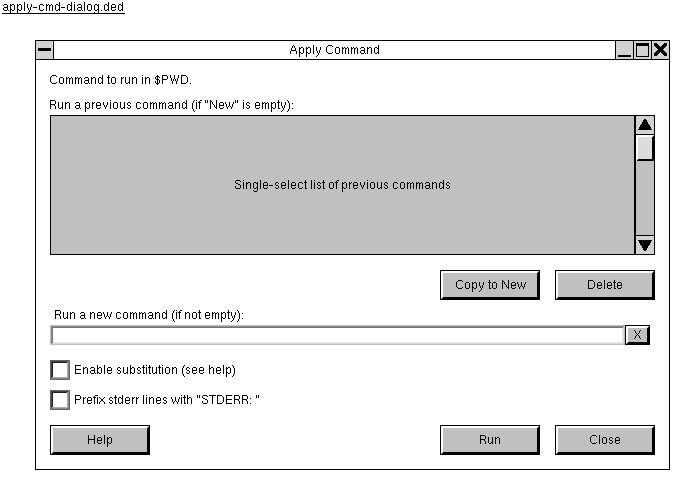
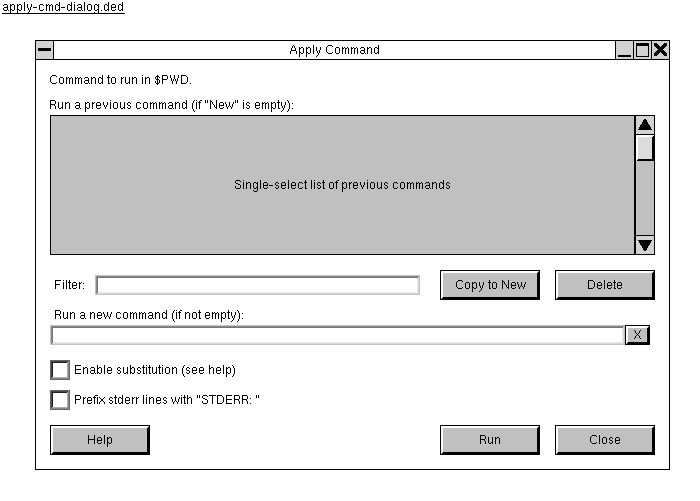
apply-command-dialog: Add a line edit to filter the history list.

Changed region(s): [[0.12, 0.5389, 0.6, 0.5988]]

diff --git a/doc/apply-cmd-dialog-spec.html b/doc/apply-cmd-dialog-spec.html
@@ -28,12 +28,24 @@ The dialog has these controls, laid out from top to bottom:
 <li><code>prevCommands</code>: List box containing the previously run command lines,
     less any subsequent deletions.  Initially, the most recently run
     command is selected, such that the user can open the dialog and
-    immediately hit Enter to run that command.
+    immediately hit Enter to run that command.  The list also allows
+    the user to type a few letters (when it has focus), and it will move
+    the selection to the entry that starts with those letters.  (The
+    exact behavior is currently known to me; this is something the Qt
+    list widget evidently does by default.)
 
-<li>Two buttons horizontally adjacent, aligned to the right side of the
-    dialog:
+<li>These horizontally adjacent controls, from left to right:
 
     <ul>
+
+    <li>Label with text: "Filter:".
+
+    <li><code>filter</code>: Single-line edit box.  When the user
+        enters a string into this box, the list restricts itself to
+        those entries that contain that string as a substring.  This
+        box has the hotkey Alt+F.  Additionally, when this box has focus
+        and the user presses the up-arrow key, focus moves to the list
+        and selects the first item if nothing is selected.
 
     <li><code>copyToNew</code>: Push button with label "Copy to New" and hotkey Alt+C.
         This copies the text of the selected item in <code>prevCommands</code> into the
@@ -101,6 +113,7 @@ Summary of hotkeys:
 <ul>
 <li>Alt+C: Activate <code>copyToNew</code>.
 <li>Alt+D: Activate <code>deleteSelected</code>.
+<li>Alt+F: Activate <code>filter</code>.
 <li>Alt+H: Activate <code>help</code>.
 <li>Alt+N: Set focus to <code>newCommand</code>.
 <li>Alt+P: Set focus to <code>prevCommands</code>.

diff --git a/apply-command-dialog.cc b/apply-command-dialog.cc
@@ -32,6 +32,114 @@ using namespace gdv;
 INIT_TRACE("apply-command-dialog");
 
 
+void ApplyCommandDialog::filterChanged(QString const &) NOEXCEPT
+{
+  GENERIC_CATCH_BEGIN
+
+  populateListWidget(false /*initial*/);
+
+  // If this causes the list to have exactly one element, select it so
+  // the user can then press Enter to run it without having to move to
+  // the list box.
+  selectListElementIfOne();
+
+  GENERIC_CATCH_END
+}
+
+
+void ApplyCommandDialog::populateListWidget(bool initial)
+{
+  CommandLineHistory const &history = getHistory();
+
+  // If we are just starting the dialog, select the most-recently
+  // executed command.  Otherwise (we are repopulating due to the filter
+  // being edited), try to keep the same item selected.
+  std::string itemToSelect;
+  if (initial) {
+    itemToSelect = history.m_recent;
+  }
+  else if (QListWidgetItem *item = m_prevCommandsListWidget->currentItem()) {
+    itemToSelect = toString(item->text());
+  }
+  TRACE2("itemToSelect: " << doubleQuote(itemToSelect));
+
+  // Discard the current list contents.
+  m_prevCommandsListWidget->clear();
+
+  // Is a filter active?
+  std::string filterString = toString(m_filterLineEdit->text());
+  if (!filterString.empty()) {
+    TRACE2("filter: " << doubleQuote(filterString));
+  }
+
+  // Populate the list.
+  int curRowIndex = 0;
+  int rowToSelect = -1;
+  for (std::string const &cmd : history.m_commands) {
+    if (filterString.empty() || hasSubstring(cmd, filterString)) {
+      m_prevCommandsListWidget->addItem(toQString(cmd));
+      if (cmd == itemToSelect) {
+        rowToSelect = curRowIndex;
+      }
+      ++curRowIndex;
+    }
+  }
+
+  // Select a row if we found a good one.
+  if (rowToSelect >= 0) {
+    m_prevCommandsListWidget->setCurrentRow(rowToSelect);
+    TRACE2("selected row " << rowToSelect);
+  }
+  else {
+    TRACE2("no selected row");
+  }
+}
+
+
+CommandLineHistory const &ApplyCommandDialog::getHistory()
+{
+  return m_editorWidget->editorGlobal()->getSettings().
+           getCommandHistoryC(m_whichFunction);
+}
+
+
+void ApplyCommandDialog::moveFocusToCommandsList()
+{
+  TRACE2("moving focus to commands list");
+
+  m_prevCommandsListWidget->setFocus();
+
+  // Select an item if we can.
+  if (m_prevCommandsListWidget->count() > 0) {
+    if (QListWidgetItem *item = m_prevCommandsListWidget->currentItem()) {
+      if (!item->isSelected()) {
+        TRACE2("selecting current item");
+        item->setSelected(true);
+      }
+      else {
+        TRACE2("current item is already selected");
+      }
+    }
+    else {
+      TRACE2("selecting first item");
+      m_prevCommandsListWidget->setCurrentRow(0);
+    }
+  }
+  else {
+    TRACE2("no items in list");
+  }
+}
+
+
+void ApplyCommandDialog::selectListElementIfOne()
+{
+  if (m_prevCommandsListWidget->count() == 1) {
+    // Does this select it?
+    m_prevCommandsListWidget->setCurrentRow(0);
+  }
+}
+
+
 void ApplyCommandDialog::copyToNew() NOEXCEPT
 {
   GENERIC_CATCH_BEGIN
@@ -108,9 +216,7 @@ ApplyCommandDialog::ApplyCommandDialog(
   }
 
   // History to use to populate the dialog.
-  CommandLineHistory const &history =
-    m_editorWidget->editorGlobal()->getSettings().
-      getCommandHistoryC(m_whichFunction);
+  CommandLineHistory const &history = getHistory();
 
   QVBoxLayout *vbox = new QVBoxLayout(this);
 
@@ -148,31 +254,23 @@ ApplyCommandDialog::ApplyCommandDialog(
   SET_QOBJECT_NAME(m_prevCommandsListWidget);
   vbox->addWidget(m_prevCommandsListWidget);
 
-  // Populate the list.
-  {
-    int index = 0;
-    int rowToSelect = -1;
-    for (std::string const &cmd : history.m_commands) {
-      m_prevCommandsListWidget->addItem(toQString(cmd));
-      if (cmd == history.m_recent) {
-        rowToSelect = index;
-      }
-      ++index;
-    }
-
-    if (rowToSelect >= 0) {
-      m_prevCommandsListWidget->setCurrentRow(rowToSelect);
-      TRACE1("initially selected row " << rowToSelect);
-    }
-    else {
-      TRACE1("no initially selected row");
-    }
-  }
-
-  // "Copy" and "Delete" buttons.
+  // Filter, "Copy" button, and "Delete" button.
   {
     QHBoxLayout *hbox = new QHBoxLayout();
-    hbox->addStretch();
+
+    m_filterLabel = new QLabel(tr("&Filter"));
+    SET_QOBJECT_NAME(m_filterLabel);
+    hbox->addWidget(m_filterLabel);
+
+    m_filterLineEdit = new QLineEdit();
+    SET_QOBJECT_NAME(m_filterLineEdit);
+    m_filterLabel->setBuddy(m_filterLineEdit);
+    QObject::connect(m_filterLineEdit, &QLineEdit::textEdited,
+                     this, &ApplyCommandDialog::filterChanged);
+    hbox->addWidget(m_filterLineEdit);
+
+    // Intercept certain keystrokes.
+    m_filterLineEdit->installEventFilter(this);
 
     m_copyButton = new QPushButton(tr("&Copy to New"));
     SET_QOBJECT_NAME(m_copyButton);
@@ -188,6 +286,9 @@ ApplyCommandDialog::ApplyCommandDialog(
 
     vbox->addLayout(hbox);
   }
+
+  // Do this now that `m_filterLineEdit` exists.
+  populateListWidget(true /*initial*/);
 
   m_newCommandLabel = new QLabel(tr("Run a &new command (if not empty)"));
   SET_QOBJECT_NAME(m_newCommandLabel);
@@ -282,6 +383,7 @@ ApplyCommandDialog::~ApplyCommandDialog()
   TRACE1("running destructor");
 
   // See doc/signals-and-dtors.txt.
+  QObject::disconnect(m_filterLineEdit, nullptr, this, nullptr);
   QObject::disconnect(m_copyButton, nullptr, this, nullptr);
   QObject::disconnect(m_deleteButton, nullptr, this, nullptr);
   QObject::disconnect(m_clearNewCommandButton, nullptr, this, nullptr);
@@ -317,6 +419,26 @@ bool ApplyCommandDialog::isPrefixStderrEnabled() const
   else {
     return false;
   }
+}
+
+
+bool ApplyCommandDialog::eventFilter(QObject *watched, QEvent *event)
+{
+  if (event->type() == QEvent::KeyPress) {
+    QKeyEvent *keyEvent = static_cast<QKeyEvent*>(event);
+    if (keyEvent->modifiers() == Qt::NoModifier) {
+      switch (keyEvent->key()) {
+        case Qt::Key_Up:
+          if (watched == m_filterLineEdit) {
+            // Navigate up to the table.
+            moveFocusToCommandsList();
+            return true;           // Prevent further processing.
+          }
+          break;
+      }
+    }
+  }
+  return false;
 }
 
 

diff --git a/apply-command-dialog.h b/apply-command-dialog.h
@@ -5,6 +5,7 @@
 #define EDITOR_APPLY_COMMAND_DIALOG_H
 
 #include "eclf.h"                      // EditorCommandLineFunction
+#include "editor-settings-fwd.h"       // CommandLineHistory
 #include "editor-widget-fwd.h"         // EditorWidget
 #include "modal-dialog.h"              // ModalDialog
 
@@ -49,6 +50,12 @@ private:     // data
   // List of previously executed commands.
   QListWidget *m_prevCommandsListWidget = nullptr;
 
+  // "Filter:"
+  QLabel *m_filterLabel = nullptr;
+
+  // Substring filter for the list box.
+  QLineEdit *m_filterLineEdit = nullptr;
+
   // "Copy to New".
   QPushButton *m_copyButton = nullptr;
 
@@ -72,6 +79,23 @@ private:     // data
   QCheckBox * NULLABLE m_prefixStderrLinesCheckBox = nullptr;
 
 private Q_SLOTS:
+  // Update the list based on the filter string changing.
+  void filterChanged(QString const &) NOEXCEPT;
+
+  // Populate `m_prevCommandsListWidget`.  If `initial`, then this is
+  // the first time, otherwise it is after a changed filter.
+  void populateListWidget(bool initial);
+
+  // Get the global command history relevant to this dialog.
+  CommandLineHistory const &getHistory();
+
+  // Used when the user presses up-arrow from the filter edit, move
+  // focus to the list, and try to select a row.
+  void moveFocusToCommandsList();
+
+  // If the list has exactly one element, select it.
+  void selectListElementIfOne();
+
   // Copy the selected item in `m_prevCommandsListWidget` into
   // `m_newCommandLineEdit`.
   void copyToNew() NOEXCEPT;
@@ -99,6 +123,9 @@ public:      // funcs
 
   // Similarly, true if prefixing is enabled.
   bool isPrefixStderrEnabled() const;
+
+  // QObject methods.
+  virtual bool eventFilter(QObject *watched, QEvent *event) OVERRIDE;
 
 public Q_SLOTS:
   // Close the dialog and run the specified command, if there is one.

diff --git a/editor-settings-fwd.h b/editor-settings-fwd.h
@@ -4,6 +4,7 @@
 #ifndef EDITOR_SETTINGS_FWD_H
 #define EDITOR_SETTINGS_FWD_H
 
+class CommandLineHistory;
 class EditorSettings;
 
 #endif // EDITOR_SETTINGS_FWD_H
